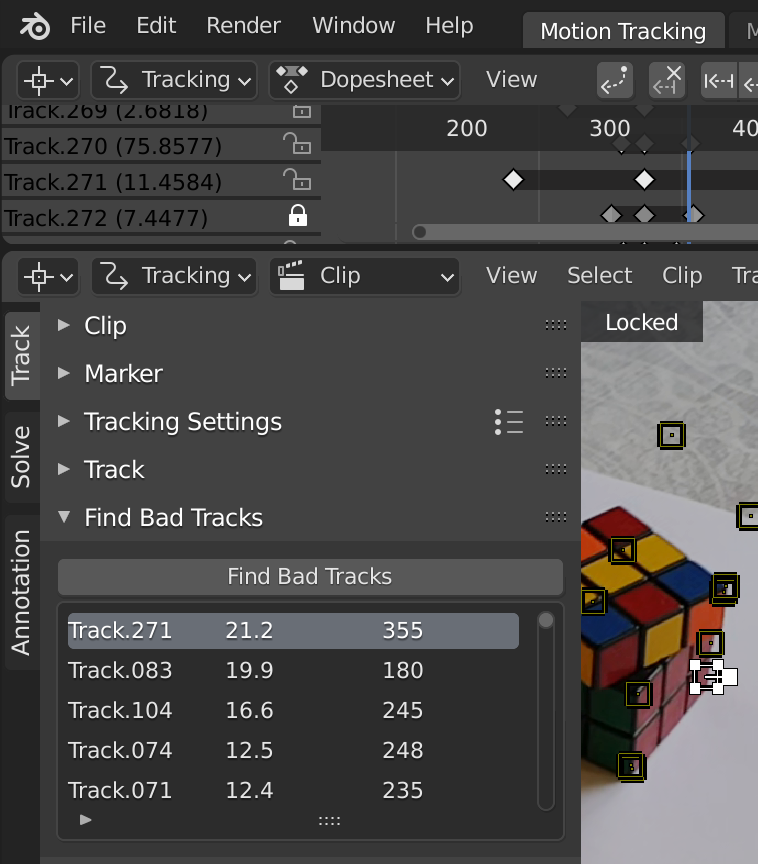
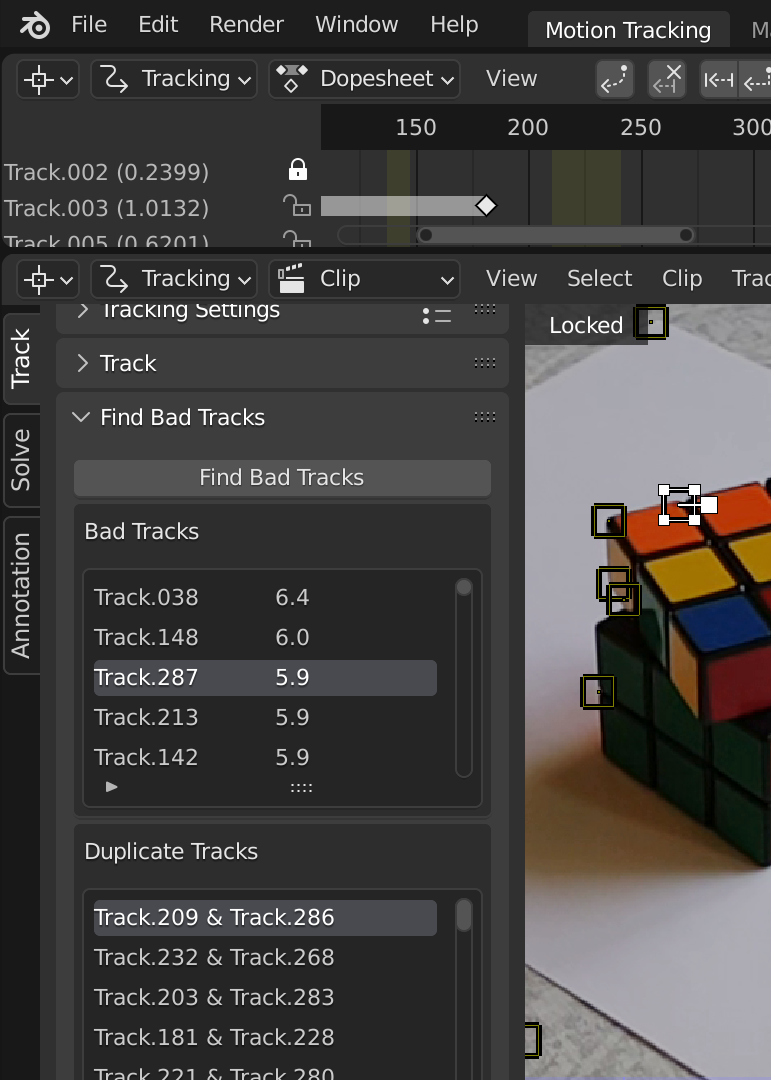
Update description to match behavior

diff --git a/README.md b/README.md
@@ -25,15 +25,31 @@ by a human.
 ## Usage Instructions
 
 1. Follow the Installation Instructions `^` for how to install and enable this addon
+
 1. Do some motion tracking, collect some tracks
+
 1. In the Motion Tracking workspace, Movie Clip Editor on the middle left of
-   your screen, select the <kbd>Track</kbd> tab, expand <kbd>Find Bad Tracks</kbd> (you may have to
-   scroll down to see this section) and press the <kbd>Find Bad Tracks</kbd> button
-1. A list of tracks will now be displayed just below that button, with the worst
-   frame number for each track and its badness score at that point.
-1. Clicking a track in the list will select that track in the clip editor and
-   take you to the worst frame. Stepping a frame left will show how the track
-   skips / slides.
+   your screen, select the <kbd>Track</kbd> tab, expand <kbd>Find Bad
+   Tracks</kbd> (you may have to scroll down to see this section) and press the
+   <kbd>Find Bad Tracks</kbd> button.
+
+   At about 400 tracks and 600 frames the computation takes 5s-10s on my
+   machine.
+
+1. A list of Bad Tracks will now be displayed just below that button, with each
+   track's badness score next to it.
+
+   Clicking a track in the list will select that track in the clip editor and
+   take you to the worst frame. Stepping a few frames left or right will show
+   how the track skips / slides.
+
+1. Another list of Duplicate Tracks comes below the Bad Tracks list. This list
+   contains track pairs that come close at some point of their lifetimes. The
+   most divergent track pairs are at the top of this list.
+
+   Clicking a track pair in this list will take you to a frame where the tracks
+   overlap. Stepping a few frames left or right will show you if the tracks
+   start diverging. If they do, (at least) one of the tracks are likely bad!
 
 ![Example usage](example.png 'Example usage')
 
